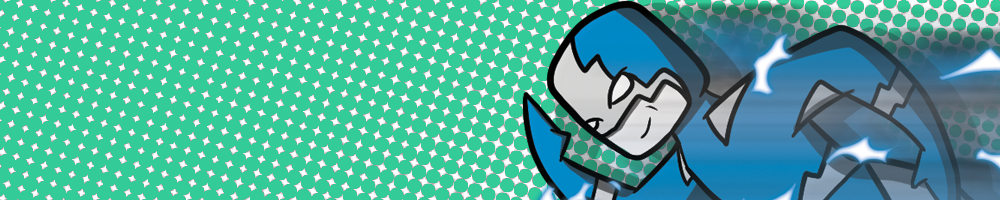
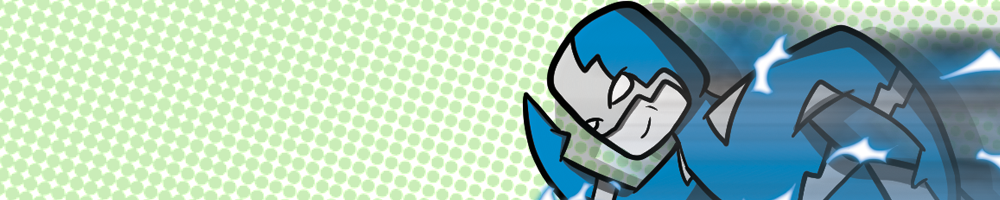
main page revamp

diff --git a/public/css/style.css b/public/css/style.css
@@ -925,8 +925,6 @@ body {
 }
 .ggbackground {
   background-image: url("../images/defaultbg.png");
-  background-color: #c39;
-  background-blend-mode: color-burn;
   background-attachment: fixed;
   background-repeat: none;
   background-size: cover;
@@ -1391,42 +1389,41 @@ body {
   background-image: url("../images/articles/mainbanner4h.png");
 }
 .maintext1 {
-  font-family: "Okuda";
-  font-size: 12rem;
+  font-family: "Adventure";
+  font-size: 8rem;
   color: #fff;
-  margin-top: 9rem;
+  margin-top: 12rem;
   margin-left: 2rem;
   margin-right: 2rem;
   margin-bottom: 0.25;
   text-shadow: -0.2rem 0.25rem 0.25rem #000, -0.2rem -0.25rem 0.25rem #000, 0.75rem 0.25rem 0.25rem #000;
 }
 .maintext2 {
-  font-family: "Okuda";
-  font-size: 12rem;
+  font-family: "Adventure";
+  font-size: 8rem;
   color: #fff;
-  margin-top: 19rem;
+  margin-top: 23rem;
   margin-left: 0.5rem;
   margin-right: 0.5rem;
   text-shadow: -0.2rem 0.25rem 0.25rem #000, -0.2rem -0.25rem 0.25rem #000, 0.75rem 0.25rem 0.25rem #000;
 }
 .maintext3 {
-  font-family: "Okuda";
-  font-size: 12rem;
+  font-family: "Adventure";
+  font-size: 8rem;
   color: #fff;
-  margin-top: 19rem;
+  margin-top: 23rem;
   margin-left: 0.5rem;
   margin-right: 0.5rem;
   margin-bottom: 0rem;
   text-shadow: -0.2rem 0.25rem 0.25rem #000, -0.2rem -0.25rem 0.25rem #000, 0.75rem 0.25rem 0.25rem #000;
 }
 .maintext4 {
-  font-family: "Okuda";
-  font-size: 12rem;
+  font-family: "Adventure";
+  font-size: 8rem;
   color: #fff;
   margin-left: 2rem;
   margin-right: 2rem;
   text-shadow: -0.2rem 0.25rem 0.25rem #000, -0.2rem -0.25rem 0.25rem #000, 0.75rem 0.25rem 0.25rem #000;
   width: 100%;
-  margin-top: 9rem;
-margin-bottom
+  margin-top: 12rem;
 }
